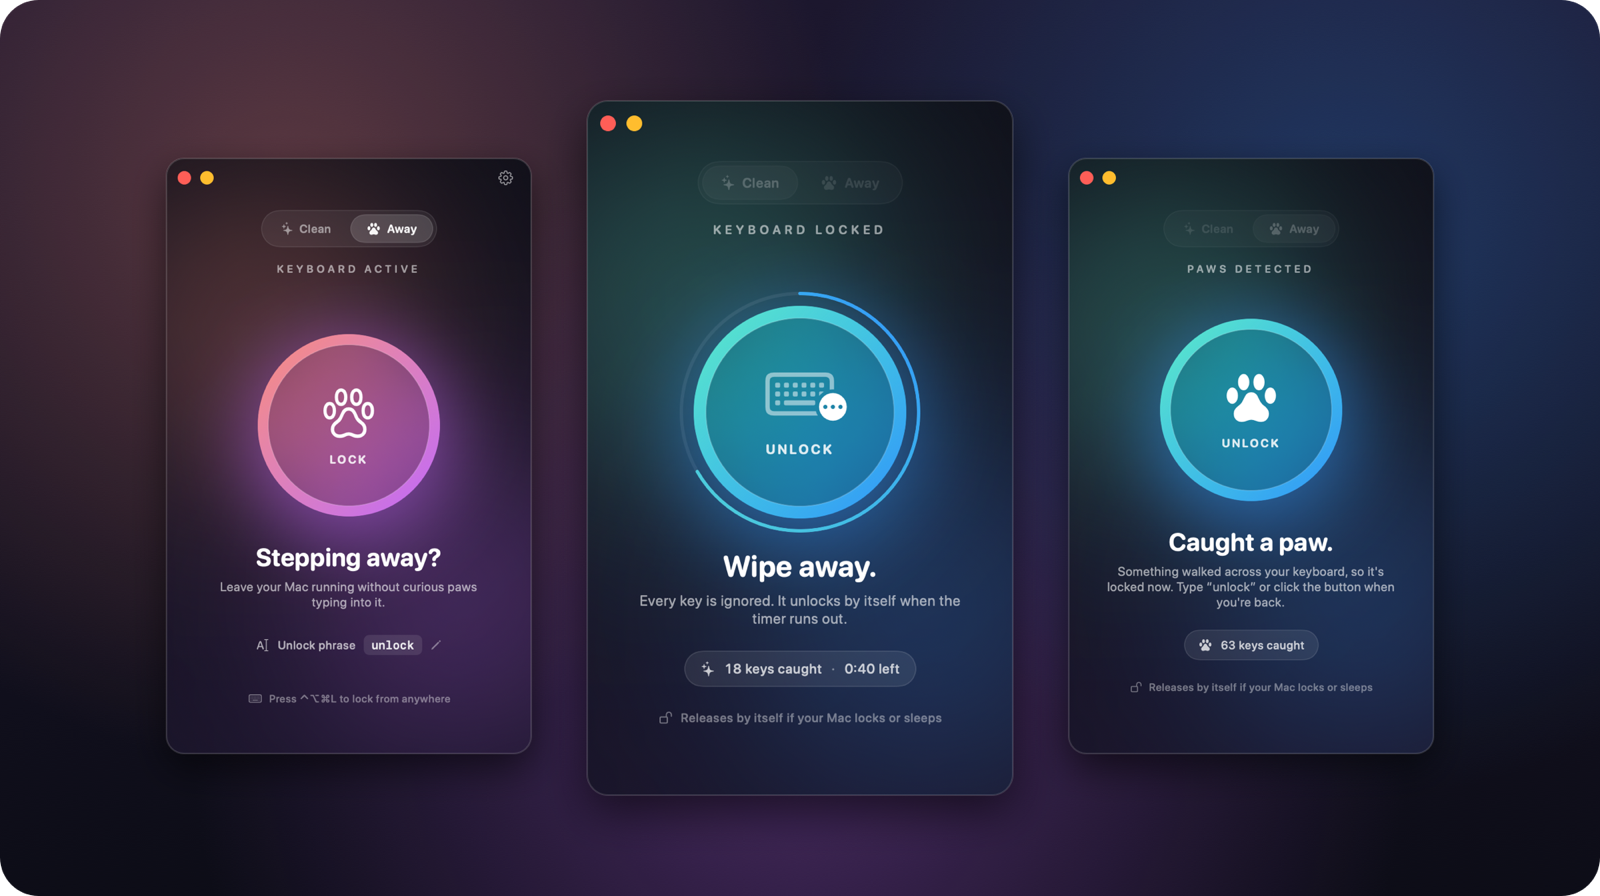
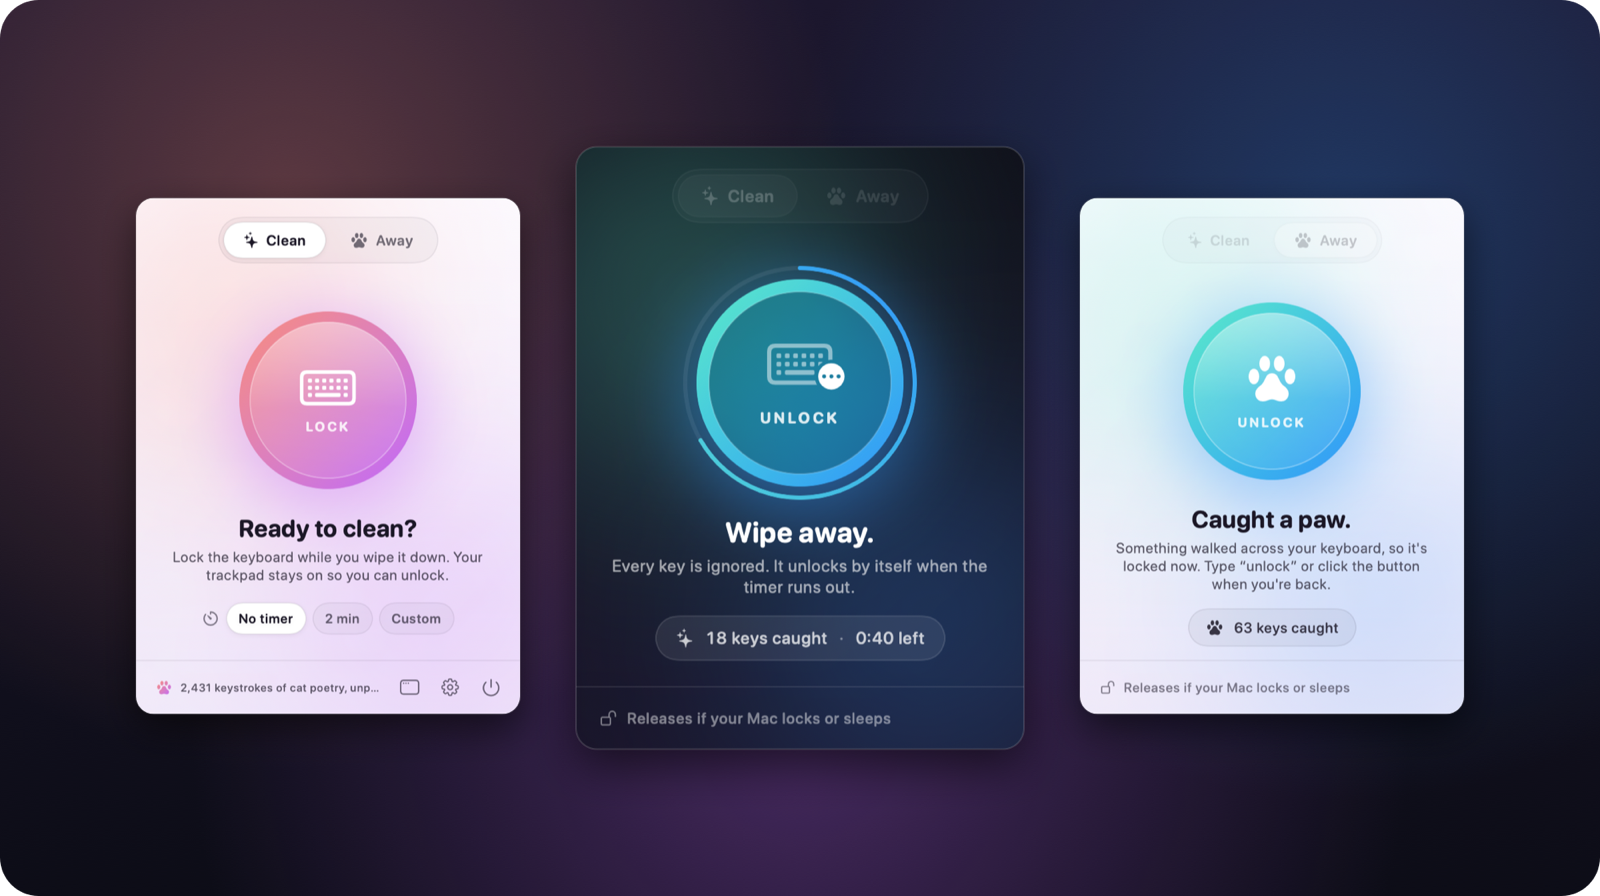
Windows parity polish, README art for the card, Homebrew/winget packaging; CI waits for the installer only

diff --git a/Tools/make-readme-art.swift b/Tools/make-readme-art.swift
@@ -11,9 +11,9 @@ func rgb(_ r: CGFloat, _ g: CGFloat, _ b: CGFloat, _ a: CGFloat = 1) -> NSColor 
     NSColor(srgbRed: r, green: g, blue: b, alpha: a)
 }
 
-func screen(_ name: String) -> NSImage {
+func screen(_ name: String, theme: String = "dark") -> NSImage {
     let files = try! FileManager.default.contentsOfDirectory(atPath: previews.path)
-    let file = files.first { $0.hasPrefix("dark-") && $0.hasSuffix("-\(name).png") }!
+    let file = files.first { $0.hasPrefix("\(theme)-") && $0.hasSuffix("-\(name).png") }!
     return NSImage(contentsOf: previews.appendingPathComponent(file))!
 }
 
@@ -72,24 +72,24 @@ do {
         glow(rgb(0.76, 0.40, 0.98, 0.30), at: NSPoint(x: 1000, y: 200), radius: 760)
         glow(rgb(0.20, 0.58, 0.98, 0.28), at: NSPoint(x: 1680, y: 820), radius: 700)
 
-        let side = NSSize(width: 456, height: 744)   // 380x620 window at 1.2x
-        let middle = NSSize(width: 532, height: 868) // 1.4x
+        let side = NSSize(width: 480, height: 645)   // 320x430 card at 1.5x
+        let middle = NSSize(width: 560, height: 753) // 1.75x
         let gap: CGFloat = 70
         let total = side.width * 2 + middle.width + gap * 2
         var x = (size.width - total) / 2
-        drawWindow(screen("awayReady"), in: NSRect(x: x, y: (size.height - side.height) / 2 - 10, width: side.width, height: side.height), radius: 22)
+        drawWindow(screen("menu-bar-panel", theme: "light"), in: NSRect(x: x, y: (size.height - side.height) / 2 - 10, width: side.width, height: side.height), radius: 22)
         x += side.width + gap
         drawWindow(screen("cleanTimer"), in: NSRect(x: x, y: (size.height - middle.height) / 2, width: middle.width, height: middle.height), radius: 26)
         x += middle.width + gap
-        drawWindow(screen("pawsDetected"), in: NSRect(x: x, y: (size.height - side.height) / 2 - 10, width: side.width, height: side.height), radius: 22)
+        drawWindow(screen("pawsDetected", theme: "light"), in: NSRect(x: x, y: (size.height - side.height) / 2 - 10, width: side.width, height: side.height), radius: 22)
     }
     save(rep, "hero.png")
 }
 
 // Gallery: each state as its own rounded window on a transparent background.
-for name in ["cleanReady", "cleanTimer", "awayReady", "awayLocked", "pawsDetected", "backFromAway"] {
+for name in ["cleanReady", "cleanCustom", "awayLocked", "pawsDetected", "menu-bar-panel", "settings"] {
     let pad: CGFloat = 40
-    let win = NSSize(width: 532, height: 868)
+    let win = NSSize(width: 512, height: 688) // 320x430 card at 1.6x
     let rep = canvas(NSSize(width: win.width + pad * 2, height: win.height + pad * 2)) {
         drawWindow(screen(name), in: NSRect(x: pad, y: pad + 8, width: win.width, height: win.height), radius: 26)
     }

diff --git a/Sources/CardView.swift b/Sources/CardView.swift
@@ -477,21 +477,21 @@ struct CardView: View {
         func plural(_ x: Int, _ one: String, _ many: String) -> String { x == 1 ? one : many }
         var lines: [String] = []
         if s.pawKeys > 0 {
-            lines.append("\(n(s.pawKeys)) \(plural(s.pawKeys, "key", "keys")) your cat didn't get to type")
-            if s.pawKeys >= 5 { lines.append("≈ \(n(s.pawKeys / 5)) \(plural(s.pawKeys / 5, "word", "words")) typed by paws, never sent") }
-            lines.append("\(n(s.pawKeys)) \(plural(s.pawKeys, "keystroke", "keystrokes")) of cat poetry, unpublished")
+            lines.append("\(n(s.pawKeys)) \(plural(s.pawKeys, "key", "keys")) your cat didn't type")
+            if s.pawKeys >= 5 { lines.append("≈ \(n(s.pawKeys / 5)) \(plural(s.pawKeys / 5, "word", "words")) by paws, never sent") }
+            lines.append("\(n(s.pawKeys)) \(plural(s.pawKeys, "key", "keys")) of unpublished cat poetry")
         }
         if s.pawAmbushes > 0 {
             lines.append("\(n(s.pawAmbushes)) keyboard \(plural(s.pawAmbushes, "ambush", "ambushes")) foiled")
         }
         if s.awaySessions > 0 {
-            lines.append("\(n(s.awaySessions)) \(plural(s.awaySessions, "time", "times")) the pets were left unsupervised")
+            lines.append("\(n(s.awaySessions)) unsupervised pet \(plural(s.awaySessions, "session", "sessions"))")
         }
         if s.cleanSessions > 0 {
             lines.append("\(n(s.cleanSessions)) spotless \(plural(s.cleanSessions, "wipe-down", "wipe-downs")), zero typos")
         }
         if s.keysStopped > 0 {
-            lines.append("\(n(s.keysStopped)) \(plural(s.keysStopped, "key", "keys")) pressed and politely ignored")
+            lines.append("\(n(s.keysStopped)) \(plural(s.keysStopped, "key", "keys")) politely ignored")
         }
         return lines
     }

diff --git a/windows/CardView.xaml.cs b/windows/CardView.xaml.cs
@@ -218,14 +218,14 @@ namespace PawsOff
             var lines = new System.Collections.Generic.List<string>();
             if (s.PawKeys > 0)
             {
-                lines.Add($"{s.PawKeys:N0} {Plural(s.PawKeys, "key", "keys")} your cat didn't get to type");
-                if (s.PawKeys >= 5) lines.Add($"≈ {s.PawKeys / 5:N0} {Plural(s.PawKeys / 5, "word", "words")} typed by paws, never sent");
-                lines.Add($"{s.PawKeys:N0} {Plural(s.PawKeys, "keystroke", "keystrokes")} of cat poetry, unpublished");
+                lines.Add($"{s.PawKeys:N0} {Plural(s.PawKeys, "key", "keys")} your cat didn't type");
+                if (s.PawKeys >= 5) lines.Add($"≈ {s.PawKeys / 5:N0} {Plural(s.PawKeys / 5, "word", "words")} by paws, never sent");
+                lines.Add($"{s.PawKeys:N0} {Plural(s.PawKeys, "key", "keys")} of unpublished cat poetry");
             }
             if (s.PawAmbushes > 0) lines.Add($"{s.PawAmbushes:N0} keyboard {Plural(s.PawAmbushes, "ambush", "ambushes")} foiled");
-            if (s.AwaySessions > 0) lines.Add($"{s.AwaySessions:N0} {Plural(s.AwaySessions, "time", "times")} the pets were left unsupervised");
+            if (s.AwaySessions > 0) lines.Add($"{s.AwaySessions:N0} unsupervised pet {Plural(s.AwaySessions, "session", "sessions")}");
             if (s.CleanSessions > 0) lines.Add($"{s.CleanSessions:N0} spotless {Plural(s.CleanSessions, "wipe-down", "wipe-downs")}, zero typos");
-            if (s.KeysStopped > 0) lines.Add($"{s.KeysStopped:N0} {Plural(s.KeysStopped, "key", "keys")} pressed and politely ignored");
+            if (s.KeysStopped > 0) lines.Add($"{s.KeysStopped:N0} {Plural(s.KeysStopped, "key", "keys")} politely ignored");
             return lines;
         }
 
